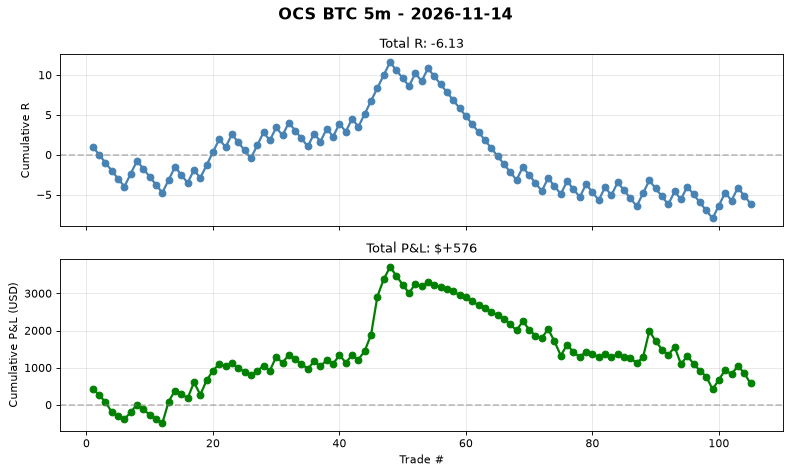
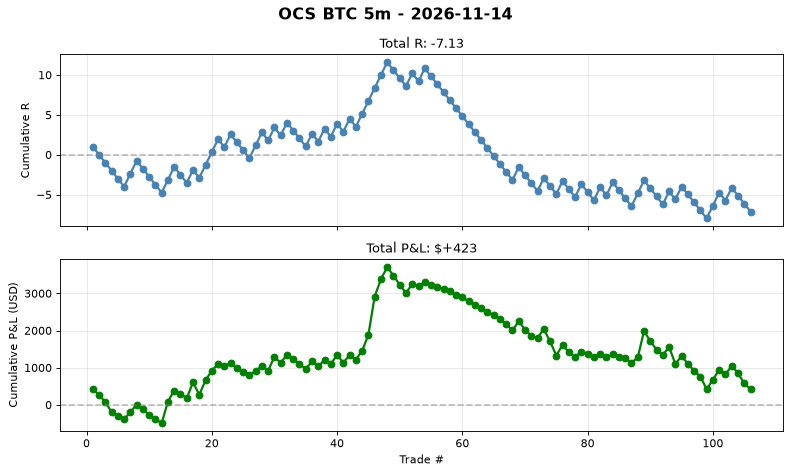
auto(ocs-btc): signal log 2026-11-14T02:21 trades=106

diff --git a/automation/reports/ocs_btc_5m/daily/2026-11-14.md b/automation/reports/ocs_btc_5m/daily/2026-11-14.md
@@ -1,5 +1,37 @@
 # OCS BTC 5m - 2026-11-14
 
-**No trades today.**
+## Summary
+- **Trades**: 1 (0W / 1L)
+- **Win Rate**: 0.0%
+- **Total R**: -1.00R
+- **Total P&L**: $-154
+- **Avg R**: -1.00R
+- **Profit Factor**: 0.9
 
-Cumulative stats: 105 trades | WR 36.2% | avg R -0.058
+## Exit Breakdown
+- T1 (+1.0R): 1
+- T2 (+1.618R): 37
+- T3 (+2.618R): 0
+- T4 (+3.618R): 0
+- T5 (+5.0R): 0
+- SL (-1.0R): 68
+
+## Best Trade
+- **LONG** at 68,288 -> SL 68,134
+- R = -1.00, P&L = $-154
+- Held for 6 bars
+
+## Worst Trade
+- **LONG** at 68,288 -> SL 68,134
+- R = -1.00, P&L = $-154
+- Held for 6 bars
+
+## Cumulative Stats (Lifetime)
+- Total trades: 106
+- WR: 35.8%
+- Avg R: -0.067
+- Total R: -7.13R
+- Profit Factor: 0.9
+
+## Chart
+See `daily/2026-11-14.png` for cumulative P&L curve.
